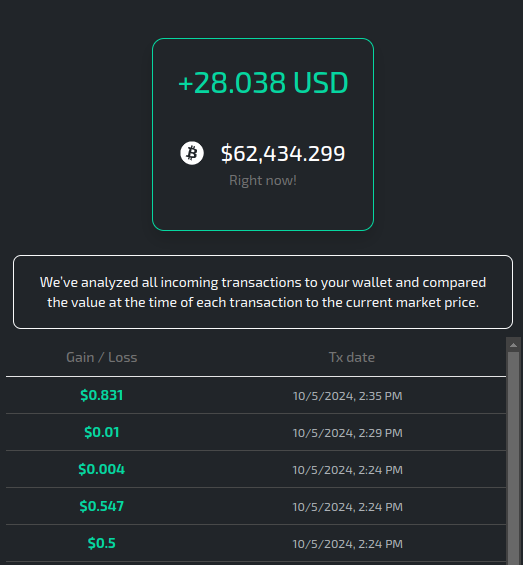
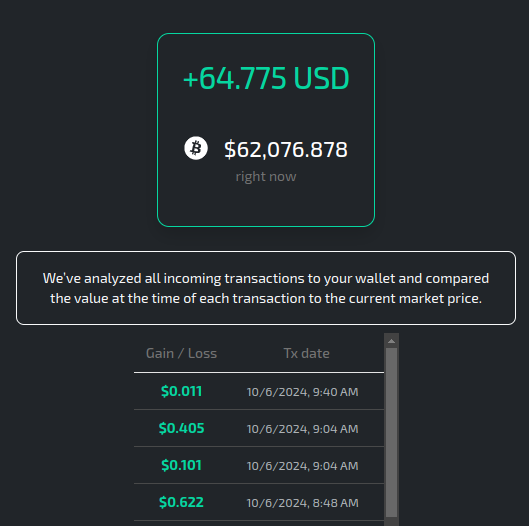
updates

diff --git a/src/app/page.js b/src/app/page.js
@@ -13,9 +13,6 @@ import UIMessages from './assets/uimessages';
 import GoogleAnalytics from './analytics';
 import ExplanationSection from './components/web/explanationSection';
 import Navbar from './navbar';
-import { faQuestionCircle } from '@fortawesome/free-regular-svg-icons';
-import testTransactions from "../../data/walletSample.json"
-import { RocketIcon } from "@radix-ui/react-icons"
 import { Alert, AlertDescription, AlertTitle } from "@/components/ui/alert"
 import { Skeleton } from "@/components/ui/skeleton"
 
@@ -29,7 +26,6 @@ import {
   CardTitle,
 } from "@/components/ui/card"
 import { Button } from '@/components/ui/button';
-import Link from 'next/link';
 
 export default function Home() {
   const [wallet, setWallet] = useState('');
@@ -43,7 +39,6 @@ export default function Home() {
   const [crypto, setCrypto] = useState()
   const [languageDetected, setLanguageDetected] = useState('');
   const [isInvalidAddress, setIsInvalidAddress] = useState(false)
-  const [isExplanationVisible, setIsExplanationVisible] = useState(false)
 
   const fetchPrice = async (crypto) => {
     try {
@@ -221,7 +216,7 @@ export default function Home() {
         {transactions && !loading && !error && <>
 
 
-          <Card className={`bg-dark text-white border-${totalProfits > 0 ? "success" : "danger"}`}>
+          <Card className={`bg-dark mx-3 text-white border-${totalProfits > 0 ? "success" : "danger"}`}>
             <CardHeader>
               <CardTitle>  {totalProfits && <h1 className={`${totalProfits > 0 ? "text-success" : "text-danger"}`}>{totalProfits > 0 ? "+" : ""}{totalProfits.toLocaleString()} USD
               </h1>}
@@ -239,7 +234,7 @@ export default function Home() {
                 </div>
                 {price && <h4 className="mb-0">${price.toLocaleString() || "fetching price..."}</h4>}
               </div>
-              <CardDescription>Right now!</CardDescription>
+              <CardDescription>{UIMessages[languageDetected].rightNow}</CardDescription>
             </CardContent>
 
           </Card>

diff --git a/src/app/components/analysis/analysis.js b/src/app/components/analysis/analysis.js
@@ -10,6 +10,7 @@ import {
     TableHeader,
     TableRow,
 } from "@/components/ui/table"
+import UIMessages from "../../assets/uimessages"
 
 
 const Analysis = ({ currentPrice, setResolvedProfits, resolvedProfits, transactions, crypto, wallet, languageDetected }) => {
@@ -74,12 +75,12 @@ const Analysis = ({ currentPrice, setResolvedProfits, resolvedProfits, transacti
 
     return (
         <div className="d-flex flex-column justify-content-center align-items-center">
-            <Table style={{ width: 500 }}>
-                <TableCaption>Your last 50 inbound transactions</TableCaption>
-                <TableHeader style={{ width: 400 }}>
+            <Table style={{minWidth: 250}}>
+                <TableCaption className="text-center">{UIMessages[languageDetected].last50Tx}</TableCaption>
+                <TableHeader>
                     <TableRow>
-                        <TableHead className="text-center">Gain / Loss</TableHead>
-                        <TableHead className="text-center">Tx date</TableHead>
+                        <TableHead className="text-center">{UIMessages[languageDetected].gainLossHead}</TableHead>
+                        <TableHead className="text-center">{UIMessages[languageDetected].txDate}</TableHead>
                     </TableRow>
                 </TableHeader>
 

diff --git a/src/app/assets/uimessages.js b/src/app/assets/uimessages.js
@@ -18,7 +18,10 @@ const UIMessages = {
         card3Title: "Solo Carteras Nativas",
         card3Text: "Ten en cuenta que solo aceptamos direcciones de carteras nativas de BTC, ETH y ADA—no carteras de intercambios. Asegúrate de usar una cartera directamente de la cadena de bloques para obtener resultados precisos",
         returns: "Retornos",
-        invalidAddress: "Inválida"
+        invalidAddress: "Inválida",
+        gainLossHead: "Ganancia / Pérdida",
+        txDate: "Fecha de Tx",
+        last50Tx: "Últimas 50 transacciones"
     },
     English: {
         title: "Check how much your crypto has grown",
@@ -39,7 +42,10 @@ const UIMessages = {
         card3Title: "Native Wallets Only",
         card3Text: "Please note, we only accept native BTC, ETH, and ADA wallet addresses—not exchange wallets. Make sure to use a wallet directly from the blockchain for accurate results.",
         returns: "Returns",
-        invalidAddress: "Invalid"
+        invalidAddress: "Invalid",
+        gainLossHead: "Gain / Loss",
+        txDate: "Tx date",
+        last50Tx: "Last 50 transactions"
     }
 }
 

diff --git a/src/app/components/analysis/components/transactionCard.js b/src/app/components/analysis/components/transactionCard.js
@@ -69,7 +69,7 @@ const TransactionCard = ({ transaction, currentPrice, setResolvedProfits, resolv
     }
 
     return (
-        <TableRow className=" border-secondary">
+        <TableRow className="border-secondary">
             <TableCell className="" >
                 {!Number.isNaN(txCalculations.profits) && txCalculations?.profits && <span className={`mb-0 fw-bold ${isSuccess ? "text-success" : "text-danger"}`}>${txCalculations.profits.toLocaleString()}</span>}
                 {Number.isNaN(txCalculations.profits) && <span>Woops! We messed this one up</span>}

diff --git a/src/app/globals.css b/src/app/globals.css
@@ -24,15 +24,14 @@ body {
 }
 
 .makeitscrollable_and_full_window_height {
-  height: 60vh;
+  height: 53vh;
   max-height: 100vh;
   overflow-y: auto;
   width: 100vw
 }
 
 .mainContainer {
-
-  height: 100vh;
+  height: 45vh;
 }
 
 .infoBar {
